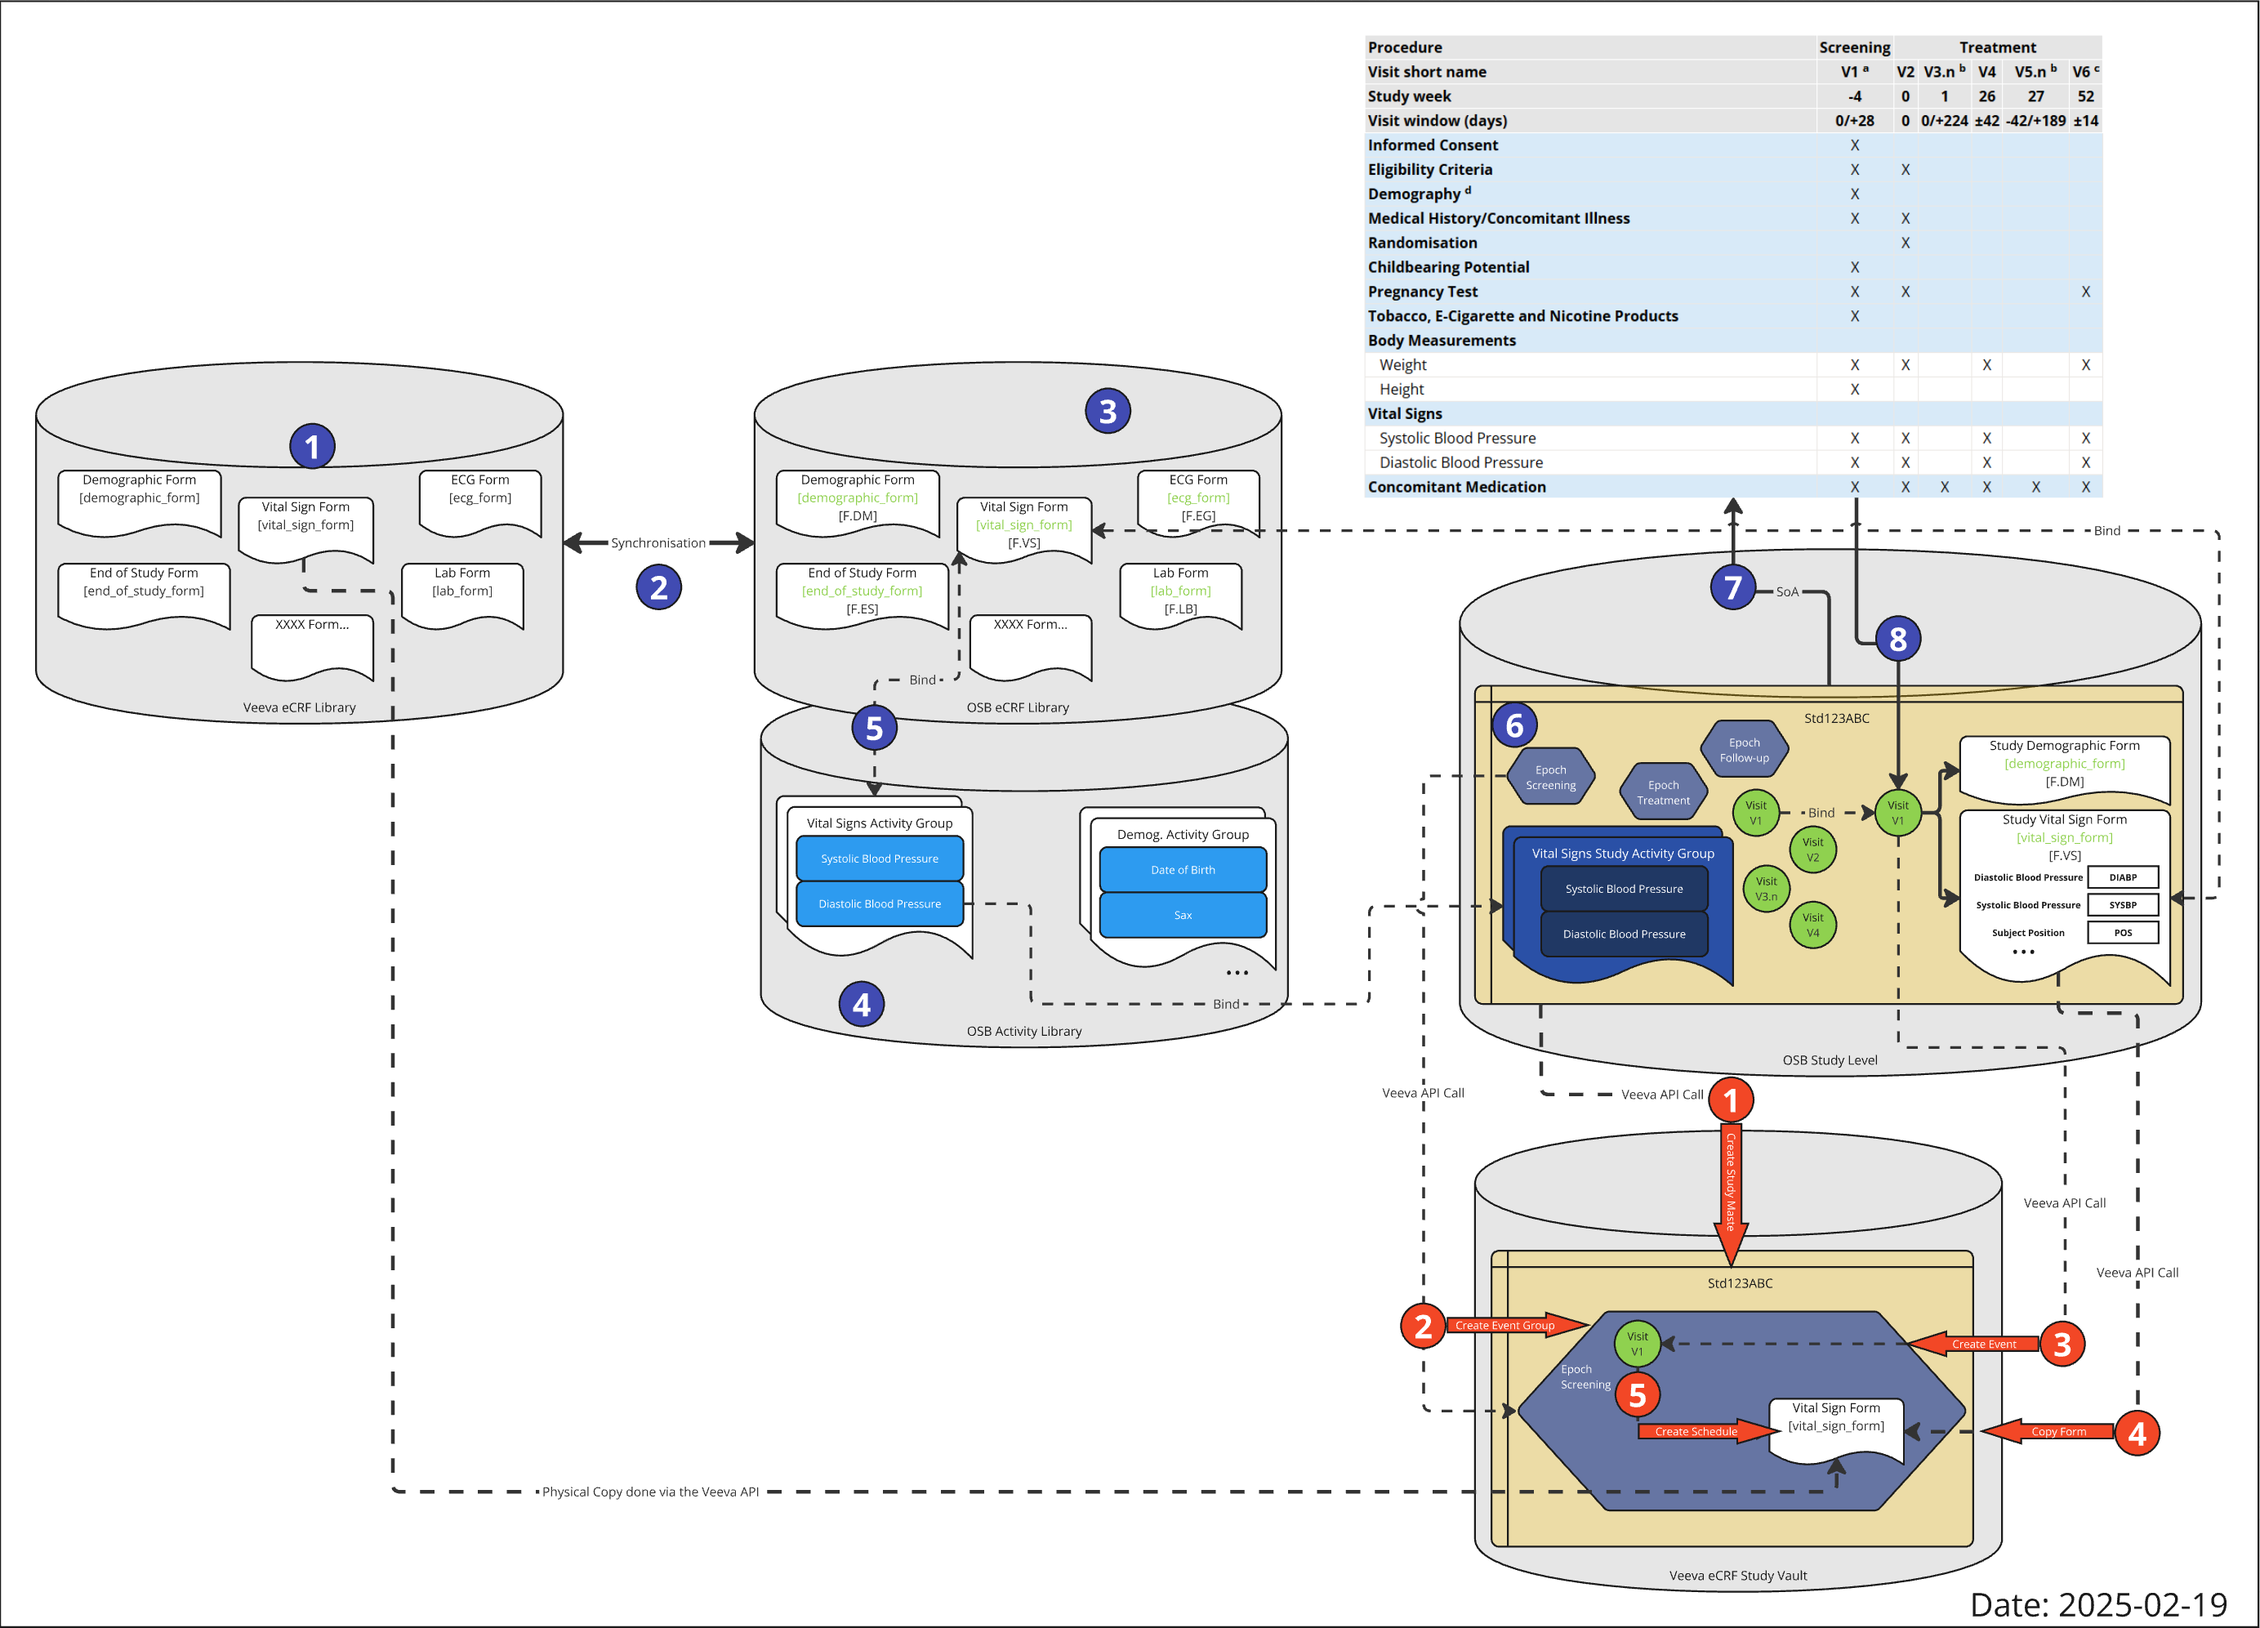
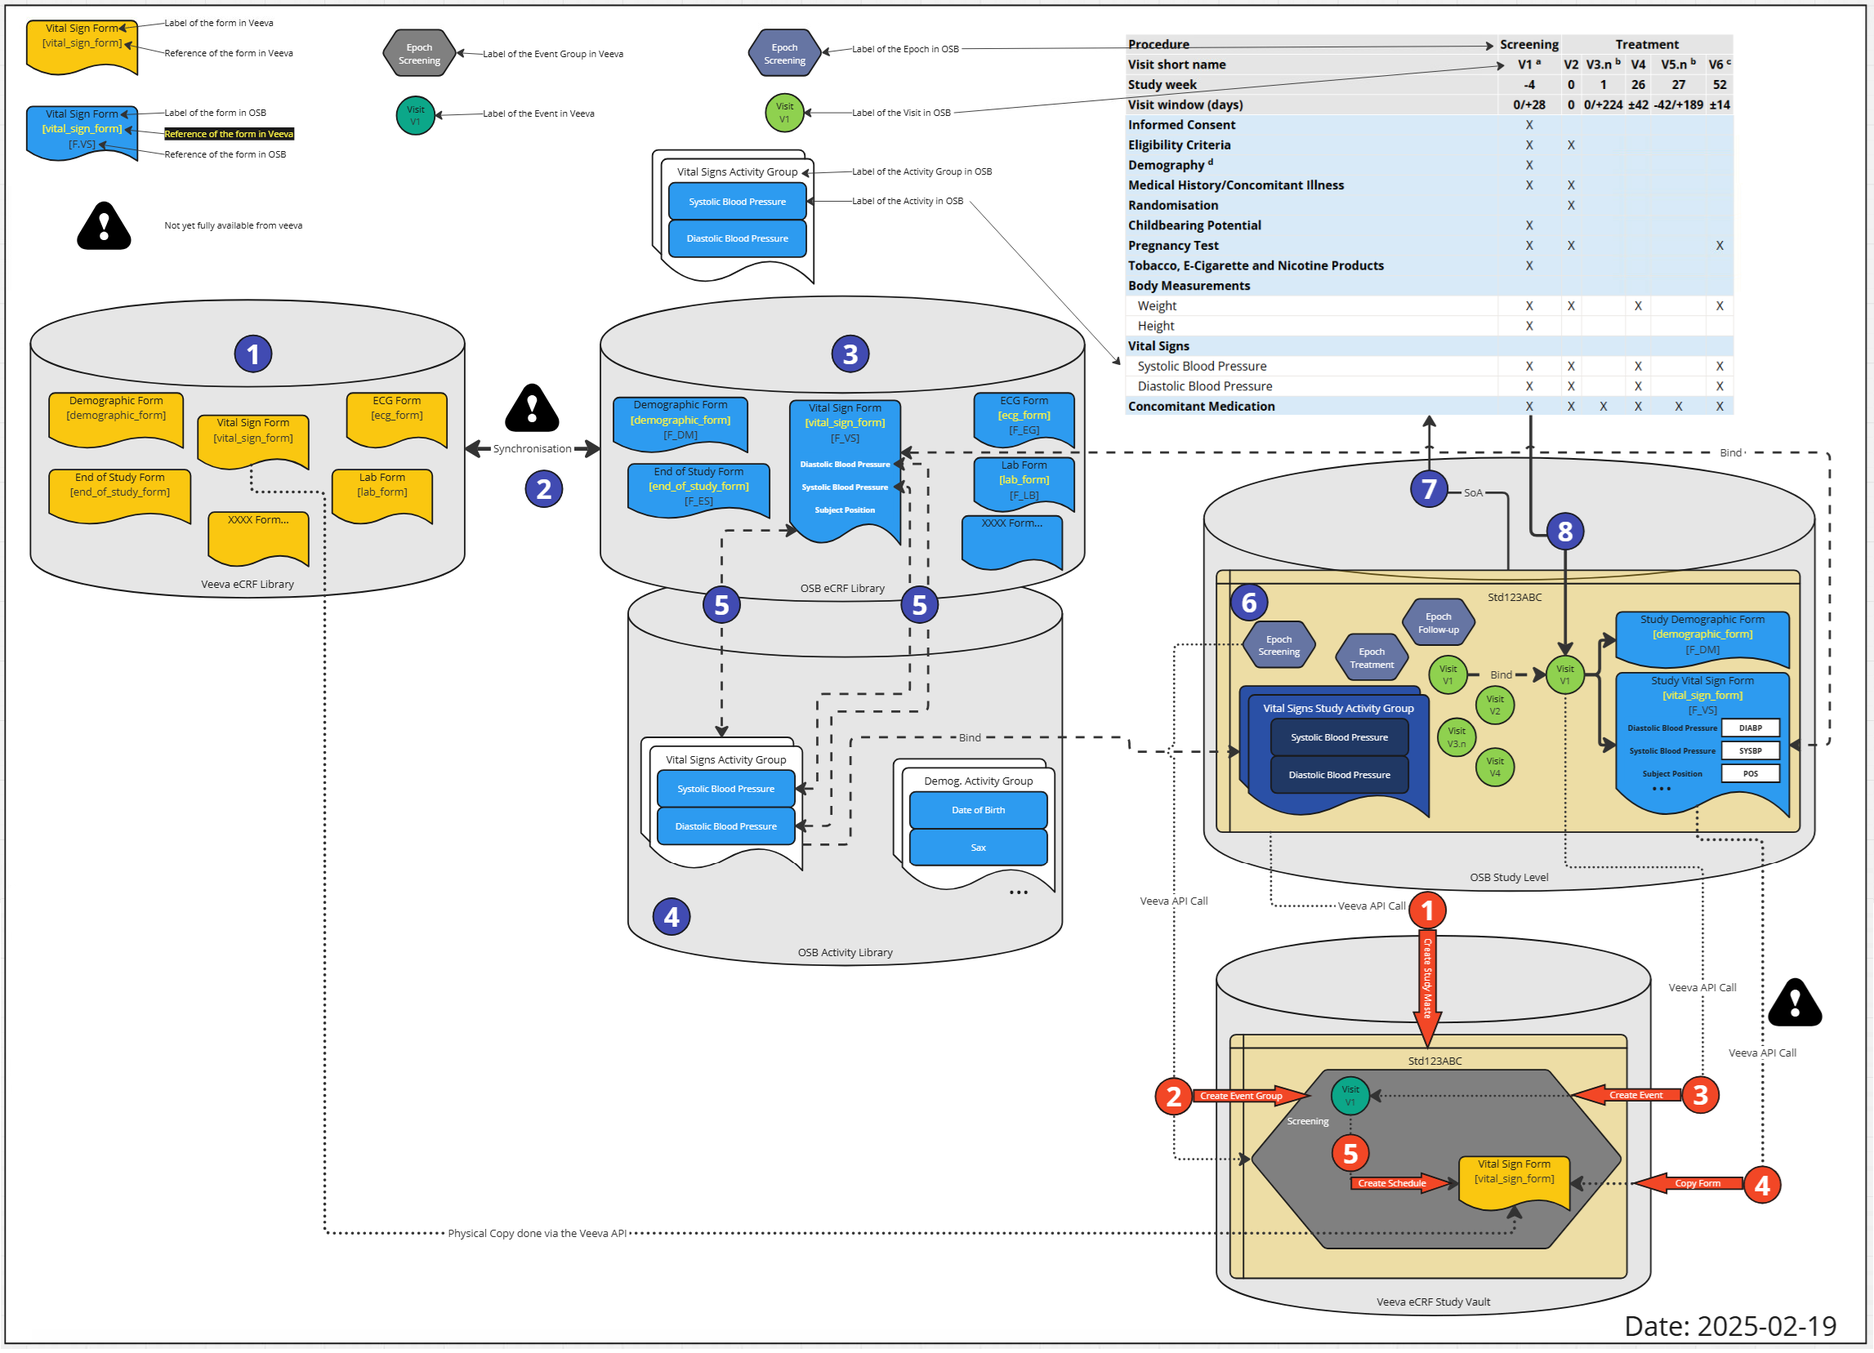
work on beyond concepts section

diff --git a/docs/guide_beyond_concepts.md b/docs/guide_beyond_concepts.md
@@ -21,7 +21,7 @@ The core elements are to be linked together:
 
 The activities, which are for example any kind of laboratory tests, build the base for the linkage. The following example shows how it could be envisioned in general. 
 
-![Linking All Together - High Level Vision](./img/guide_bc_01.png)
+[![Linking All Together - High Level Vision](./img/guide_bc_01.png)](./img/guide_bc_01.png){target=_blank}
 {: class="imageParagraph"}
 
 Figure 1: Linking All Together - High Level Vision
@@ -46,7 +46,7 @@ When having this definition available - for a concrete study, the protocol activ
 
 In the end, the mapping is a bit more complex having specific relationships of types. The following visualization shows the current implementation planning and status of the linking of the activities to the concrete data specification and beyond.
 
-![Linking all Together - Current Mapping Implementation Example](./img/guide_bc_02.png)
+[![Linking all Together - Current Mapping Implementation Example](./img/guide_bc_02.png)](./img/guide_bc_02.png){target=_blank}
 {: class="imageParagraph"}
 
 Figure 2: Linking all Together - Current Mapping Implementation Example
@@ -73,10 +73,18 @@ Then there are concrete instances which build the data specification. These coul
 
 We are working on integrating the Veeva EDC System with the OpenStudyBuilder. The following high-level overview shows the main idea.
 
-![High Level Overview of Veeva EDC Integration Plans](./img/guide_bc_03.png)
+![High Level Overview of Veeva EDC Integration Plans](./img/guide_bc_04_006.png)
 {: class="imageParagraph"}
 
 Figure 4: High Level Overview of Veeva EDC Integration Plans
+{: class="imageDescription"}
+
+We plan to synchronize the Veeva EDC CRF Library and the OpenStudyBuilder CRF library. These OpenStudyBuilder library elements are then linked to activity instances which are used in the study specific Schedule of Activities (SoA). This will trigger an automation which will setup the Study in the EDC setup in Veeva EDC.
+
+[![Overview of Veeva EDC Integration Plans](./img/guide_bc_03.png)](./img/guide_bc_03.png){target=_blank}
+{: class="imageParagraph"}
+
+Figure 5: Overview of Veeva EDC Integration Plans
 {: class="imageDescription"}
 
 **In short** - the currently plan is the following:
@@ -100,17 +108,80 @@ This specification can now be used to generate a very specifig formatted JSON fi
 - Create Study Master
 - Create Event Group Definitions
 - Create Event Definitions
-- Copy Form Definitions from the Veeva CRF Library 
+- Copy Form Definitions from the Veeva CRF Library
 - Create Schedule
 
 This is then checked in the Veeva EDC system and will then be used for the study setup in VAL and PROD.
 
 ## Veeva Integration Detailed Plan
 
-Actually, to see the details of the elements and how this is all linked together, a more detailed view is required. The following section describes additional details. A high level overview is shown in the following figure.
+Actually, to see the details of the elements and how this is all linked together, a more detailed view is required. The following section describes additional details. 
 
-![Detailed Overview of Veeva EDC Integration Plans](./img/guide_bc_04.png)
+[![Detailed Overview of Veeva EDC Integration Plans](./img/guide_bc_04.png)](./img/guide_bc_04.png){target=_blank}
 {: class="imageParagraph"}
 
-Figure 4: Detailed Overview of Veeva EDC Integration Plans
+Figure 6: Detailed Overview of Veeva EDC Integration Plans
 {: class="imageDescription"}
+
+The following legend is used to describe the elements:
+
+Description | Icon
+--- | ---
+Veeva EDC Form | ![Veeva EDC Form](./img/guide_bc_04_001_01.png)
+OpenStudyBuilder Form | ![OpenStudyBuilder Form](./img/guide_bc_04_001_02.png)
+Steps not fully supported | ![Steps not fully supported](./img/guide_bc_04_001_03.png)
+Veeva event group | ![Veeva event group](./img/guide_bc_04_001_04.png)
+Veeva event label | ![Veeva label](./img/guide_bc_04_001_05.png)
+OpenStudyBuilder Epoch | ![OpenStudyBuilder Epoch](./img/guide_bc_04_001_06.png)
+OpenStudyBuilder Visit | ![OpenStudyBuilder Visit](./img/guide_bc_04_001_07.png)
+OpenStudyBuilder Activity | ![OpenStudyBuilder Activity](./img/guide_bc_04_001_08.png)
+
+Let's get through the process steps.
+
+![Process Steps - eCRF Libraries](./img/guide_bc_04_002.png)
+{: class="imageParagraph"}
+
+Figure 7: Process Steps - eCRF Libraries
+{: class="imageDescription"}
+
+As a first steps, the eCRF forms are created in the Veeva eCRF Library including the ItemGroups and Items (1). An important value is the reference ID. The synchronization job (2) will create the correpsonding objects in the OpenStudyBuilder eCRF library (3) using additionally the linkage information (reference ID).
+
+![Process Steps - Activity Setup](./img/guide_bc_04_007.png)
+{: class="imageParagraph"}
+
+Figure 8: Process Steps - Activity Setup
+{: class="imageDescription"}
+
+In the steps step, the activity instances needs to be enhanced. Within the OpenStudyBuilder Activity Library (4), the activity (general concepts) and activity instances (dataset specifications) are managed. The activity instances are linked to the CRF elements (5). The link to the Form, ItemGroup and Item is managed in accordance with the ODM standard.
+
+![Process Steps - Study SoA Setup](./img/guide_bc_04_003.png)
+{: class="imageParagraph"}
+
+Figure 8: Process Steps - Study SoA Setup
+{: class="imageDescription"}
+
+In a study (6), a schedule of activity (SoA) is created (7). In the study, epochs are defined and used along with visits. A specific activity is selected for the study protocol and further fine-tuned by selecting a corresponding connected activity instance and associated with specific visits. As the linkage information is available in the standard, the visits can bind to concrete eCRF Forms including ItemGroups and Items (8).
+
+![Process Steps - Veeva EDC Study Setup](./img/guide_bc_04_005.png)
+{: class="imageParagraph"}
+
+Figure 8: Process Steps - Veeva EDC Study Setup
+{: class="imageDescription"}
+
+As we are now having all required information available, the Veeva EDC setup for the specific study can be created. First (1), the study is created if not already available storing the ID back in OpenStudyBuilder. Then the event group definitions are created (2) containing the Epochs. The next step created events (3) which corresponds to the visit. The form definitions are copied from the Veeva eCRF Library (4) using the ID which are stored along. Finally the Schedule is created (5) assigning the visits to the forms.
+
+There is a "robot" program which creates and performs the final required API calls in the Veeva EDC system. This automatic setup is performed in a DEV instance of the Veeva EDC system. After setup, checks can be performed within Veeva and then the study can be setup in VAL and PROD afterwards.
+
+
+
+
+
+
+
+
+
+
+
+
+
+
